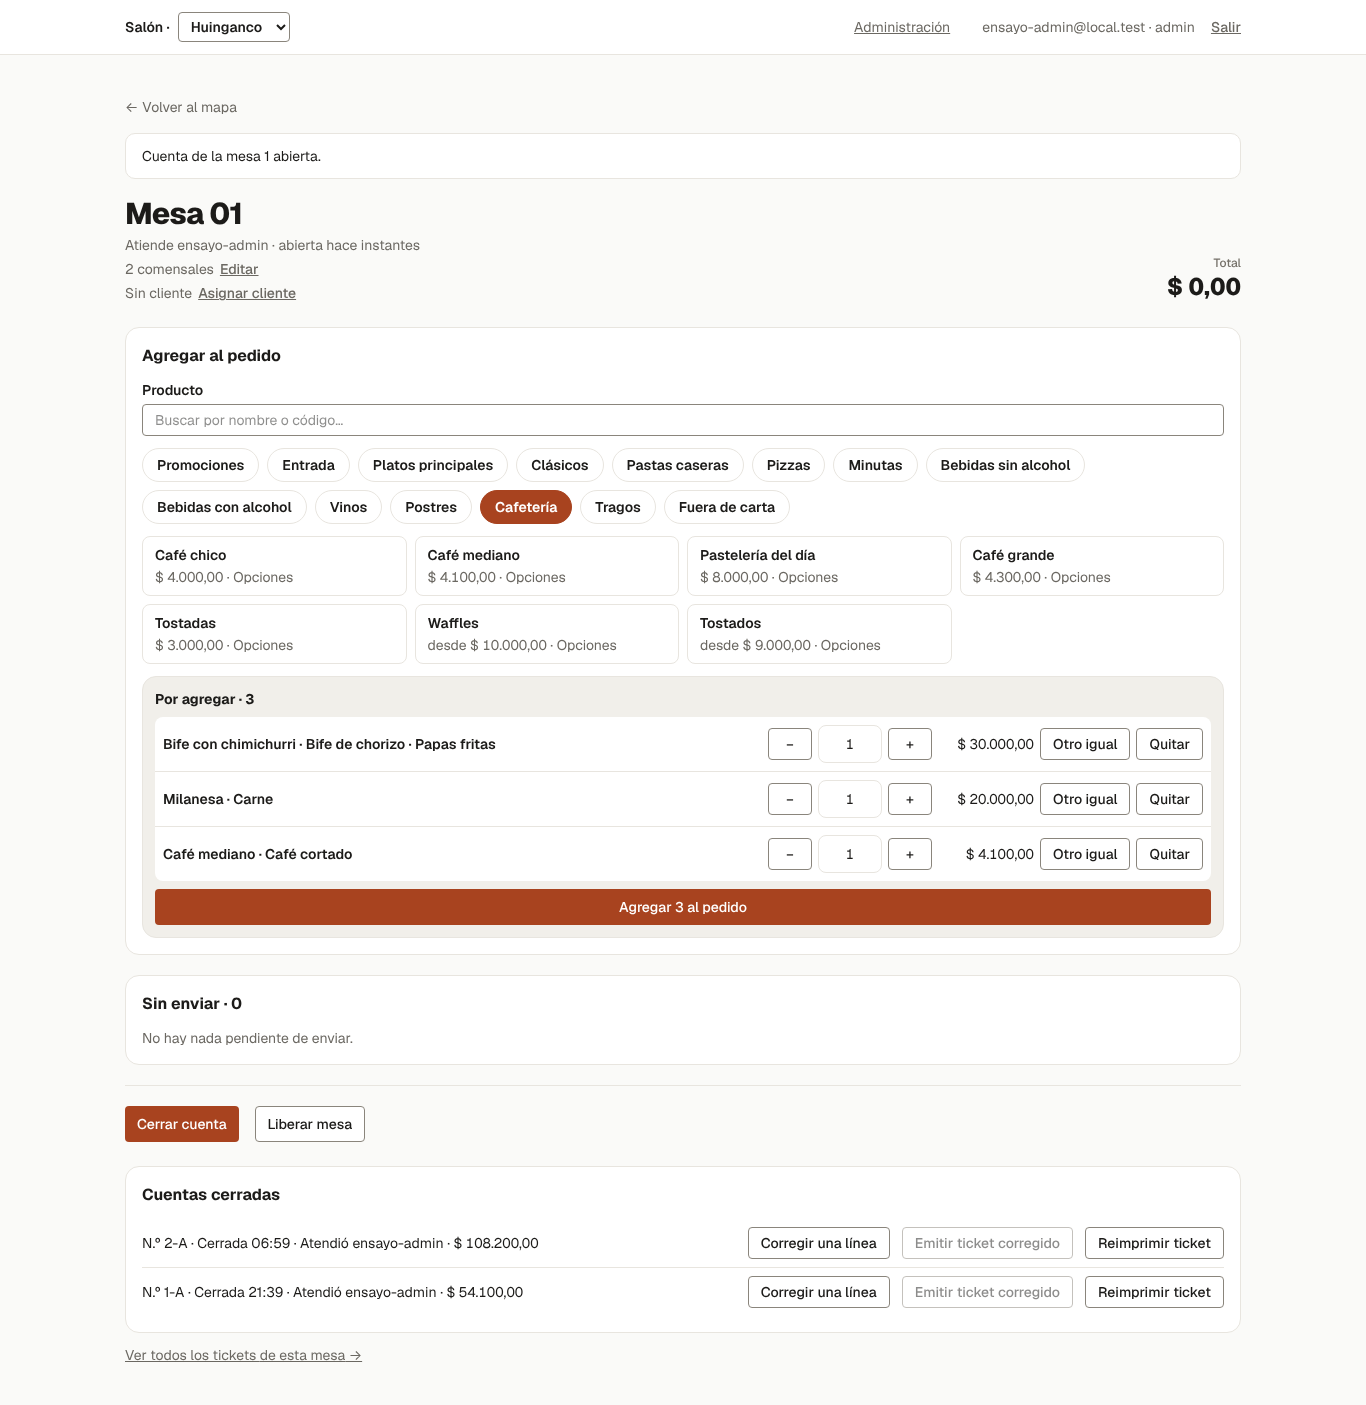
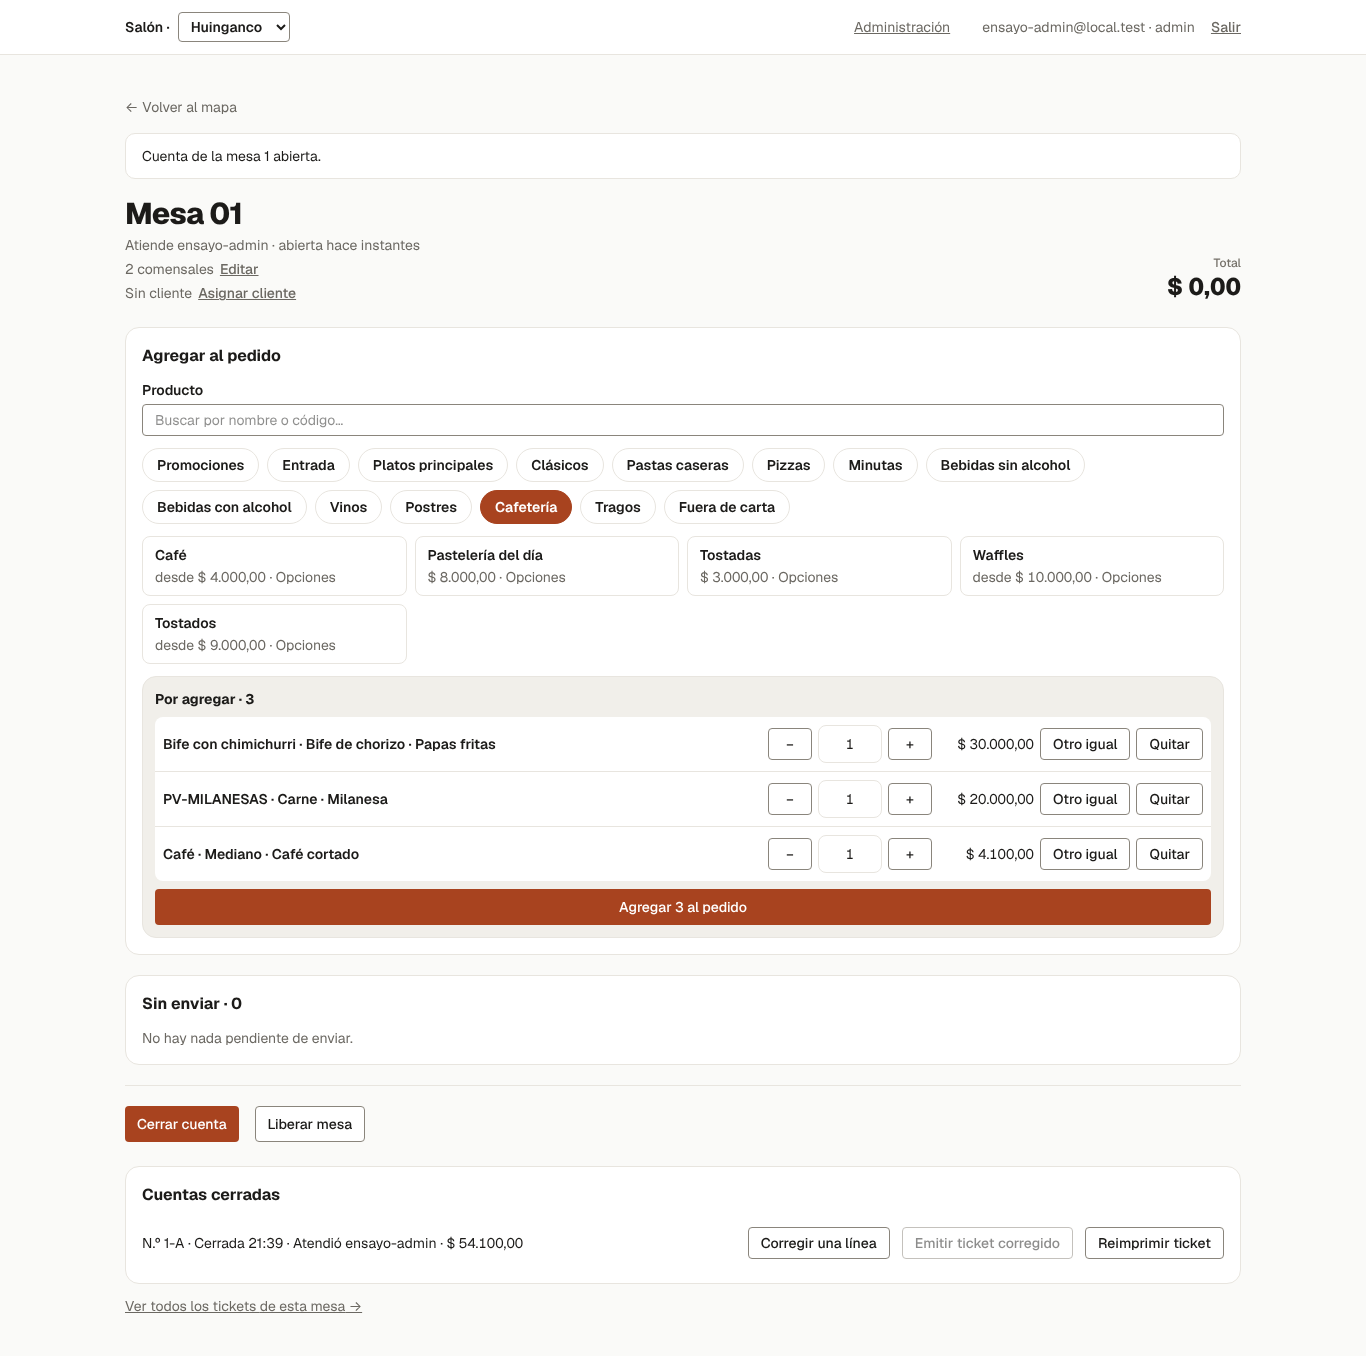
«Después» corregido: café y milanesa como producto con ejes, bife en dos productos
Claude-Session: https://claude.ai/code/session_01FWp2khQcvCfAf3y6tDjvYw

diff --git a/LEEME.md b/LEEME.md
@@ -366,64 +366,54 @@ Whisky — $ 13.000
 
 ---
 
-# ETAPA 2 — «DESPUÉS»: cada producto vendible es una línea de la carta
+# ETAPA 2 — «DESPUÉS» (versión corregida: café y milanesa se quedan como producto con ejes; el bife, dos productos)
 
-Pedido del orquestador (en nombre del dueño). Capturas en `capturas/despues/` (`-m` = 375×844, `-d` = 1366×768). Mismas reglas que el «antes»: pantallas reales, datos reales, base local descartable, nada en producción, sin migraciones, nada en `main`.
+**Corrección (orquestador, 2026-11-12):** la primera versión de esta etapa cargó café y milanesa como un producto por línea (7 productos); eso era una lectura equivocada. Café es UN producto con dos ejes (tipo y tamaño, precio por tamaño) y la milanesa UN producto con un eje de preparación, tal como ya estaban en el «antes». Esta versión REEMPLAZA a la anterior (las capturas viejas se borraron de la rama). Mismas reglas: pantallas reales, datos reales, base local descartable, nada en producción, sin migraciones, nada en `main`.
 
 ## Cómo se armó
-- Código: el del PR #233 (`fc6b583`, «Está bien así» y lista de pendientes apagados) levantado en local, SIN tocarlo, contra una COPIA de la base del «antes» (`motor2_despues`). Las capturas `l-sin-PR-*` usan `main` (`a0ca384`) contra esos mismos datos, para ver qué cambia el PR.
-- Datos: los mismos 3 platos del «antes» en Huinganco, cargados por pantallas existentes como cada plato = un producto. **SUPUESTO A:** solo Huinganco y solo estos 3 platos (no se recargaron las bases de las otras sucursales). **SUPUESTO B:** «cada producto vendible = una línea de la carta» se cargó así: «Bife a criolla» y «Bife con chimichurri» (30.000 c/u), «Milanesa» (20.000) y «Milanesa napolitana» (25.000), «Café chico» (4.000), «Café mediano» (4.100) y «Café grande» (4.300): 7 productos DIRECTO, nombre de carta = nombre del producto (sin «Nombre en la carta», sin «nombre arriba», sin prefijo). La carne/proteína y la guarnición del bife, la proteína de la milanesa y la variante del café siguen siendo grupos de opciones «incluidas sin costo» ya existentes (se reutilizaron, no se cargó ninguna opción nueva). **SUPUESTO C:** las 3 bases viejas (BIFE-, PV-MILANESAS, Café) se sacaron de la carta de Huinganco para no duplicar (3 pantallas más); siguen existiendo en el catálogo. **SUPUESTO D:** igual que en el «antes», se cargó en la base LOCAL una receta de reventa a cada producto nuevo solo para poder vender (la receta real de cada uno quedó «Pendiente»).
-- Venta de ensayo repetida (Huinganco, Mesa 01): 1 Bife con chimichurri (corte «Bife de chorizo» + «Papas fritas»), 1 Milanesa («Carne»), 1 Café mediano («Café cortado»), enviada a cocina y cerrada. En `f4` la lista «Cuentas cerradas» muestra el N.º 1-A (venta del «antes», $ 54.100) y el N.º 2-A ($ 108.200): este último es una corrida repetida de mi script de captura, no una venta real.
+- Código: el del PR #233 (`fc6b583`, «Está bien así» y lista de pendientes apagados) levantado en local, SIN tocarlo, contra una copia NUEVA de la base del «antes» (`motor2_despues`). Las capturas `l-sin-PR-*` usan `main` (`a0ca384`) contra exactamente los mismos datos, para ver qué cambia el PR.
+- Datos (SUPUESTO A: solo Huinganco y solo estos 3 platos; no se recargaron las bases de las otras sucursales):
+  - **Café:** SIN CAMBIOS. Sigue siendo el producto «Café» (directo) con el grupo «Tamaño café» (chico $ 4.000 / mediano $ 4.100 / grande $ 4.300) y el grupo «variante café» (solo / cortado / lagrima / c/ leche, sin recargo): un botón «Café» en el POS, tabla 4 × 3 en la carta pública. Carga en el «después»: 0.
+  - **Milanesa:** SIN CAMBIOS. Sigue siendo PV-MILANESAS (producto por opción) con el eje de preparación «Milanesa $ 20.000 / Milanesa napolitana $ 25.000» y la proteína oculta. Carga en el «después»: 0.
+  - **Bife (PREGUNTA ABIERTA, ver abajo):** «Bife a criolla» y «Bife con chimichurri» (30.000 c/u) como DOS productos directos con nombre propio, cada uno con los grupos ya existentes «Proteína del bife» (corte, oculto en la carta) y «Guarnición». BIFE- (el producto base con eje de preparación) se sacó de la carta de Huinganco (SUPUESTO C) para no duplicar; sigue existiendo en el catálogo.
+  - **SUPUESTO D:** igual que en el «antes», se cargó en la base LOCAL una receta de reventa a los 2 productos nuevos solo para poder vender (la receta real de cada uno quedó «Pendiente»).
+- Venta de ensayo (Huinganco, Mesa 01, 2 comensales): 1 Bife con chimichurri (corte «Bife de chorizo», guarnición «Papas fritas»), 1 Milanesa («Carne»), 1 Café mediano («Café cortado»); enviada a cocina y cerrada (ticket N.º 2-A; el N.º 1-A es la venta del «antes»).
 
 ## (1) Cuánto hay que cargar — ANTES vs DESPUÉS
-| | ANTES (hoy, los 3 platos de Huinganco) | DESPUÉS (un producto por línea) |
+| | ANTES (hoy, los 3 platos de Huinganco) | DESPUÉS |
 |---|---|---|
-| Productos de venta | 3 (BIFE-, PV-MILANESAS, Café) | **7** (+4) |
-| Grupos vinculados a los productos | 7 (bife 3, milanesa 2, café 2) | 9 (bife 2+2, milanesa 1+1, café 1+1+1) |
-| Opciones vinculadas a los productos | 18 | 26 |
-| Precios cargados | 7 (uno por opción de «Preparación» / «Tamaño») | 7 (uno por producto) |
-| «Nombre en la carta» a cargar | 0 en Huinganco (en Ovejas PV-MILANESAS tiene «Milanesas») | 0 |
-| «Platos sin nombre de carta» (lista de pendientes) | 0 | **Con el PR #233: 0.** Sin el PR, con estos datos: **7** y 7 «Está bien así» (o 7 nombres a escribir): ver `l-sin-PR-carta-hoy-*` |
-| Qué ve el cliente | Café: tabla 4 variantes × 3 tamaños (12 precios) | Café: 3 líneas (chico/mediano/grande) + «Incluye 1 variante café · ver opciones ↓» |
-| Pantallas visitadas (medido) | no medido (ver nota) | **31** (4 por producto × 7 + 3 para sacar las bases viejas) |
-| Acciones medidas (clics / textos / listas / casillas / guardados) | no medido | **58 / 28 / 23 / 7 / 33** (por producto: bife 10 clics y 5 guardados; milanesa y café 7 clics y 4 guardados; 4 textos y 3 a 4 listas cada uno) |
-- Recorrido de cada producto nuevo (medido): Catálogo › Productos › Nuevo (tipo, código, nombre, unidad) → «Qué se vende» (precio) → «Opciones y precio» (por cada grupo: «Agregar un grupo existente», elegir, «Agregar», y «Guardar»; en el bife y la milanesa se destilda «Mostrar este grupo en la carta» para el corte/proteína) → «En la carta» (se muestra, sección, orden, «Guardar contenido»).
-- **Nota sobre el ANTES:** intenté medir el mismo recorrido para las 3 bases y lo corté: el modo «Por opción» queda deshabilitado hasta que el producto tiene grupos cargados (el orden del recorrido es otro) y los precios se cargan fila por fila en cada grupo. Por eso las filas «no medido» son honestas: lo que sí es comparable son las cantidades de datos (productos, grupos, opciones, precios). Con las bases ya cargadas el ANTES no requiere recarga: lo que cuesta es MANTENERLAS (ver `e-opciones-*` del «antes», 6 a 9 campos y 5 a 14 apariciones de «pendiente» por producto).
-- Para sacar una base de la carta (SUPUESTO C): En la carta › destildar «Se muestra en la carta» › Guardar: 3 pantallas, 3 casillas, 3 clics.
+| Productos de venta en la carta | 3 (BIFE-, PV-MILANESAS, Café) | 4 (Bife a criolla, Bife con chimichurri, PV-MILANESAS, Café): **2 a cargar** (+1 neto) |
+| Grupos vinculados a esos productos | 7 (bife 3, milanesa 2, café 2) | 8 (bife 2 + 2, milanesa 2, café 2) |
+| Opciones vinculadas | 18 (bife 7, milanesa 4, café 7) | 21 (bife 5 + 5, milanesa 4, café 7) |
+| Precios cargados | 7 | 7 (2 del bife, 2 de la milanesa, 3 del café) |
+| «Nombre en la carta» a cargar | 0 en Huinganco | 0 |
+| «Platos sin nombre de carta» | 0 | **Con el PR #233: 0.** Sin el PR, con estos datos: **2** (los dos bifes) y 2 «Está bien así» (`l-sin-PR-carta-hoy-*`) |
+| Qué ve el cliente (carta pública, texto renglón por renglón) | — | IDÉNTICA salvo el ORDEN del bife con chimichurri (mi «Orden» 1 chocó con otro plato). Café sigue como tabla 4 × 3 y milanesa igual |
+| Pantallas visitadas para cargar (medido) | no medido (ver nota) | **9** (4 por bife × 2 + 1 para sacar BIFE- de la carta) |
+| Acciones medidas (clics / textos / listas / casillas / guardados) | no medido | **21 / 8 / 8 / 3 / 11** (por bife: 10 clics, 4 textos, 4 listas, 5 guardados y 1 casilla —la del corte oculto—; sacar BIFE-: 1 pantalla, 1 clic, 1 casilla, 1 guardado) |
+- Recorrido de cada bife (medido): Catálogo › Productos › Nuevo (tipo, código, nombre, unidad) → «Qué se vende» (precio) → «Opciones y precio» (por cada grupo: «Agregar un grupo existente», elegir, «Agregar», «Guardar»; en el corte se destilda «Mostrar este grupo en la carta») → «En la carta» (se muestra, sección, orden, «Guardar contenido»).
+- **Nota sobre el ANTES:** intenté medir el mismo recorrido para las bases y lo corté: el modo «Por opción» queda deshabilitado hasta que el producto tiene grupos cargados (otro orden de pantallas) y los precios se cargan fila por fila en cada grupo. Lo comparable con certeza son las cantidades de datos (productos, grupos, opciones, precios). Con café y milanesa sin cambios, el «después» solo suma la carga de los 2 bifes.
 
-## (2) POS: «familia» y opciones ocultas en el ticket
-- **Familia (variantes de un mismo plato).** En el POS los 3 cafés salen como 3 botones sueltos en la sección (`j-pos-cafeteria-sin-familia-*`), ordenados por «Orden»: con mis valores 0, 1 y 2 el «Café grande» quedó DESPUÉS de «Pastelería del día» porque los órdenes chocan con los platos que ya estaban (hay que cuidar la numeración). La carpeta del selector (género, «Café») NO se puede armar hoy: los géneros y los ítems agrupados están apagados por interruptor y la pantalla lo dice: «Los géneros y los ítems agrupados de la carta están apagados por ahora: se resuelven con las opciones de venta.» (`k-generos-crear-cafe-*`; el selector «Género» de la ficha sale deshabilitado). O sea: con el modelo nuevo la «familia» NO se resuelve con pantallas existentes; en el ANTES la familia era el propio producto base (un botón por opción, con su nombre; Café es UN producto con tamaño y variante dentro del diálogo).
-- **Opciones que hoy se ocultan en el ticket.** Siguen haciendo falta, igual que antes: el corte del bife y la proteína de la milanesa son grupos «incluidos sin costo» que la cocina necesita y el cliente no necesita ver. En el «después» se resuelve con la MISMA casilla («Mostrar este grupo en la carta» destildada, 4 productos: 4 casillas). La comanda muestra «bife de chorizo · papas fritas», «carne»; el ticket del cliente «papas fritas» y nada más: idéntico al «antes» (`g-comanda-impresa-*`, `g-ticket-impreso-*`). El modelo nuevo no lo reemplaza: son cosas distintas (nombre de la línea vs. qué elige el cliente dentro de ella).
-- Diálogo de opciones: en el «después» el bife/milanesa ya no pide elegir la «Preparación» (es el propio plato); el café ya no pide «Tamaño» (es el propio plato) y sigue pidiendo la variante. «Por agregar» ahora se nombra con el nombre de la línea («Bife con chimichurri · Bife de chorizo · Papas fritas», `f3`) en vez de «BIFE- · Bife de chorizo · Bife con chimichurri · Papas fritas»: sale mejor.
+## (2) POS y carta pública
+- **Familia:** no hace falta. Café sigue siendo UN botón («Café desde $ 4.000 · Opciones») con el cuadro de elección de tamaño y variante (`f2c-*`), y la milanesa sigue con su cuadro de preparación y proteína (`f2b-*`), igual que en el «antes». No se encendió género ni ítem agrupado (siguen apagados). Las únicas «líneas sueltas» nuevas son los 2 bifes.
+- **Opciones que hoy se ocultan en el ticket:** siguen haciendo falta y el modelo no las reemplaza: el corte del bife (y la proteína de la milanesa) son grupos «incluidos sin costo» que la cocina necesita y el cliente no necesita ver. La comanda dice «bife de chorizo · papas fritas», «carne»; el ticket «papas fritas» y nada más; idéntico al «antes» (`g-comanda-impresa-*`, `g-ticket-impreso-*`). La casilla «Mostrar este grupo en la carta» destildada se repite en cada bife nuevo (2 casillas hoy: 1 en BIFE-).
+- **Nombre en «Por agregar»:** el bife nuevo se nombra con su línea («Bife con chimichurri · Bife de chorizo · Papas fritas»); la milanesa sigue nombrándose con el interno («PV-MILANESAS · Carne · Milanesa», `f3-*`) porque es una base. Cambiarlo se puede renombrando el producto en «Qué se vende», pero eso lo cambia en el catálogo, no solo en la carta.
+- El cuadro de opciones de la milanesa y del café muestra un atajo «Lo más pedido acá» (porque la base de datos ya tiene la venta de ensayo del «antes»); no es parte de la comparación.
+- Carta pública (Huinganco): solo cambia el orden de «Bife con chimichurri» (aparece después de otros platos porque su «Orden» 1 chocó con el de otro plato); el café sigue como tabla.
 
 ## (3) Copiar receta / ficha técnica — qué hay hoy
-- **Existe:** en la pantalla de la receta de un producto, «Receta de esta sucursal»: «Copiar la receta propia de otra sucursal» (el MISMO producto, de una sucursal a otra); la «Ficha técnica» (campo de texto de la receta, «Sin ficha técnica cargada · Editar») y la «Ficha de cocina» imprimible (`/catalogo/recetas/<id>/ficha`). Ver `i-receta-*`.
-- **No encontré** (búsqueda en pantallas y código por «copiar», «duplicar» y «clonar»): copiar la receta o la ficha técnica DE UN PRODUCTO A OTRO (Milanesa → Milanesa napolitana; Café chico → mediano → grande) ni duplicar un producto con sus grupos y su carta. Con el modelo nuevo cada uno de los 7 productos necesita SU receta y SU ficha: 7 recetas contra 3 hoy. **SUPUESTO E:** para la receta no hay atajo con pantallas existentes: se carga ingrediente por ingrediente en cada producto.
-- En el «antes» el consumo se cargaba por opción en la Biblioteca de opciones (compartido entre productos: el grupo «Guarnición» lo usan 7 productos en el «antes» y 9 con los 2 nuevos, y la pantalla lo avisa), por eso hoy cada opción dice «pendiente de completar» en «Qué consume cada opción».
+- **Existe:** en la pantalla de la receta de un producto, «Receta de esta sucursal»: «Copiar la receta propia de otra sucursal» (el MISMO producto, de una sucursal a otra); la «Ficha técnica» (campo de la receta, «Sin ficha técnica cargada · Editar») y la «Ficha de cocina» imprimible (`/catalogo/recetas/<id>/ficha`). Ver `i-receta-*`.
+- **No encontré** (búsqueda en pantallas y código por «copiar», «duplicar» y «clonar»): copiar la receta o la ficha de un producto a otro (Bife a criolla → Bife con chimichurri) ni duplicar un producto con sus grupos y su carta. Con 2 bifes hay 2 recetas y 2 fichas a mano en vez de 1 de BIFE-. En el «antes» el consumo se cargaba por opción en la Biblioteca de opciones (compartido entre productos: el grupo «Guarnición» lo usan 7 productos en el «antes» y 9 con los 2 nuevos, y la pantalla lo avisa); cada opción hoy dice «pendiente de completar» en «Qué consume cada opción».
 
-## Carta pública: qué cambia (texto renglón por renglón, Huinganco)
-Solo cambian estas líneas (el resto de la carta es idéntico):
-```
-ANTES  Café (tabla)  Chico | Mediano | Grande
-                     Café solo / cortado / lagrima / c/ leche   $ 4.000 | $ 4.100 | $ 4.300   (4 filas)
-DESPUÉS Café chico — $ 4.000
-        Incluye 1 variante café · ver opciones ↓
-        Café mediano — $ 4.100
-        Incluye 1 variante café · ver opciones ↓
-        Café grande — $ 4.300
-        Incluye 1 variante café · ver opciones ↓
-        (más, al final: «VARIANTE CAFÉ · ELEGÍS 1 — café solo · café cortado · café lagrima · café c/ leche»)
-```
-Bife y milanesa se ven igual en la carta pública («Bife con chimichurri — $ 30.000 · Incluye 1 guarnición», «Milanesa — $ 20.000»); lo único es el ORDEN del bife con chimichurri (mi «Orden» 1 chocó con otro plato). Observación: el nombre interno del grupo («variante café», en minúscula) aparece tal cual en la carta pública del «después»; para cambiarlo hay que renombrar el grupo en la Biblioteca de opciones (afecta a todos los que lo usan).
+## PREGUNTA ABIERTA — bife: ¿dos productos o un producto con eje de preparación?
+En el «antes» BIFE- es UN producto con un eje de preparación (a criolla / con chimichurri, $ 30.000 cada una). En el «después» lo dejé como DOS productos con nombre propio (decisión del orquestador). Con un solo producto (eje de preparación) la carga del bife en el «después» sería 0 (ya está). Con dos: 2 productos, 8 pantallas, 20 clics, 2 recetas, 2 fichas y la casilla del corte oculto repetida. Lo que cambia para el dueño: el nombre en el POS («Bife con chimichurri · …» en vez de «BIFE- · …») y que desaparece el «nombre interno» BIFE-. Decide el dueño.
 
 ## (4) Lo que NO se pudo hacer sin código (para que decida el dueño)
-1. **Agrupar las variantes en una «familia»** (género «Café» en el POS): apagado por interruptor (`GENERO_E_ITEM_AGRUPADO_VISIBLE`); encenderlo es un cambio de código de una línea, pero es una decisión de producto.
-2. **Copiar receta / ficha técnica de un producto a otro** y **duplicar un producto** (con sus grupos, precio y carta): no existen pantallas para eso.
-3. **Alta de varios productos de una vez:** 7 productos = 31 pantallas; no hay carga por planilla ni «crear 3 productos parecidos».
-4. **Ordenar sin chocar:** el «Orden» es un número a mano por producto; no hay «ponelo después de…» ni arrastrar (los 3 cafés quedaron mezclados con la pastelería).
-5. **Que la carta pública agrupe las 3 líneas de café en una tabla** como hoy: con el modelo nuevo salen como líneas sueltas (la tabla de tamaños desaparece).
-6. **Probar la lista «sin nombre de carta» con y sin el PR en la MISMA pantalla:** se hizo con dos servidores (main y PR) contra la misma base; no hay forma de verlo en una sola pantalla.
-- Recargar las bases de las otras sucursales y de otros platos NO se hizo (SUPUESTO A). Pregunta para el orquestador (modelo de datos): si el «después» va, ¿la «familia» pasa a ser un género encendido o se acepta que el café salga como 3 líneas sueltas?
+1. **Copiar receta / ficha técnica de un producto a otro y duplicar un producto** (con sus grupos, precio y carta): no hay pantallas para eso. Pesa en el bife (2 productos casi iguales).
+2. **Alta de varios productos parecidos de una vez:** no hay carga por planilla ni «crear otro igual»; cada bife son 4 pantallas.
+3. **Ordenar sin chocar:** el «Orden» es un número a mano por producto; no hay «ponelo después de…» (el bife con chimichurri quedó mezclado con otros platos).
+4. **Cambiar el nombre con que sale una base en «Por agregar» sin tocar el producto** (PV-MILANESAS): hoy depende del nombre del producto.
+- No se pidió ni se hizo: encender género/ítems agrupados; recargar las otras sucursales ni otros platos (SUPUESTO A).
 
 ## Qué capturas hay (carpeta `capturas/despues/`)
-`a-`, `b-`, `c-`: Carta › Hoy, Visibilidad y Secciones de Huinganco con el PR #233 · `d-en-la-carta-*`, `e-opciones-*` de «Bife a criolla», «Milanesa» y «Café mediano» · `f1`..`f4`: POS · `g-*`: comanda y ticket impresos · `h-carta-publica-huinganco-laminaNN-*`: carta pública (00 portada, 01 índice, 04 Platos principales, 05 Clásicos, 13 Cafetería) · `i-receta-*`: pantalla de receta de PV-MILANESAS (base) y de «Milanesa napolitana» (nueva) · `j-pos-cafeteria-sin-familia-*` · `k-generos-crear-cafe-*` (mensaje de géneros apagados) · `l-sin-PR-*`: Carta › Hoy y ficha «En la carta» SIN el PR #233, con los datos del «después» (lista de 7 platos pendientes con «Está bien así»).
+`a-`, `b-`, `c-`: Carta › Hoy, Visibilidad y Secciones de Huinganco con el PR #233 · `d-en-la-carta-*` y `e-opciones-*` de «Bife a criolla», PV-MILANESAS y Café (estos dos, sin cambios) · `f1`..`f4`: POS · `g-*`: comanda y ticket impresos · `h-carta-publica-huinganco-laminaNN-*`: carta pública (00 portada, 01 índice, 04 Platos principales, 05 Clásicos, 13 Cafetería) · `i-receta-*`: pantalla de receta de «Bife a criolla» y de PV-MILANESAS · `l-sin-PR-*`: Carta › Hoy y ficha «En la carta» SIN el PR #233, con los datos del «después» (lista de 2 platos pendientes con «Está bien así»).
